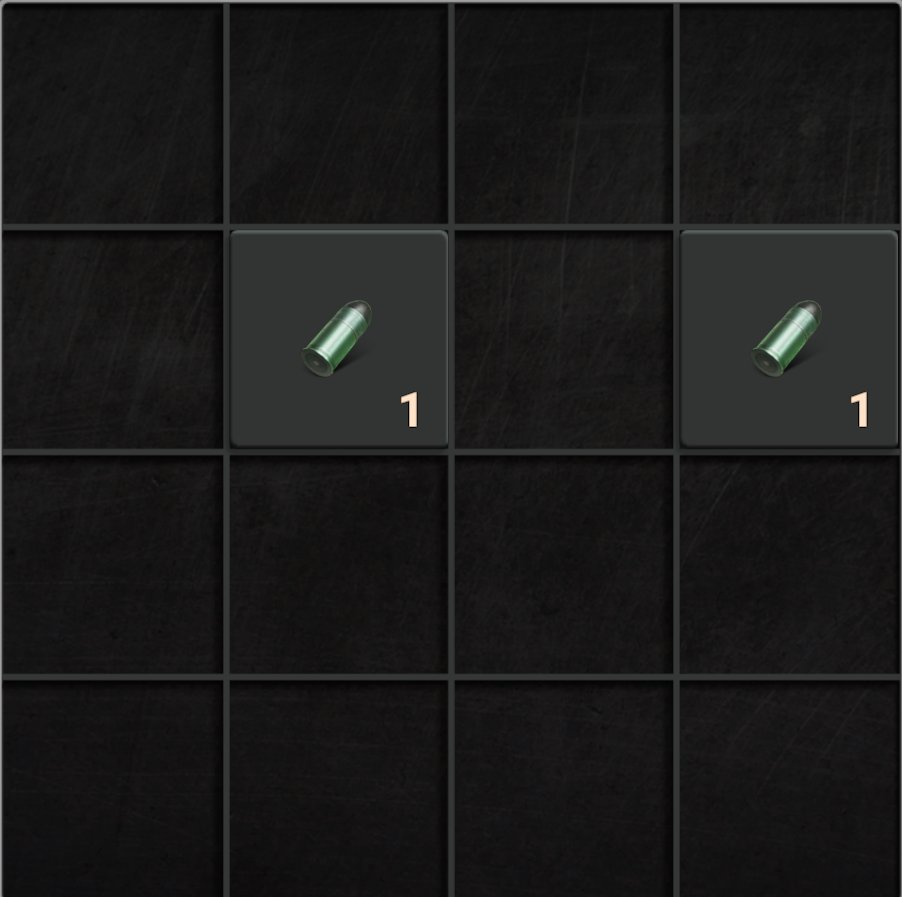
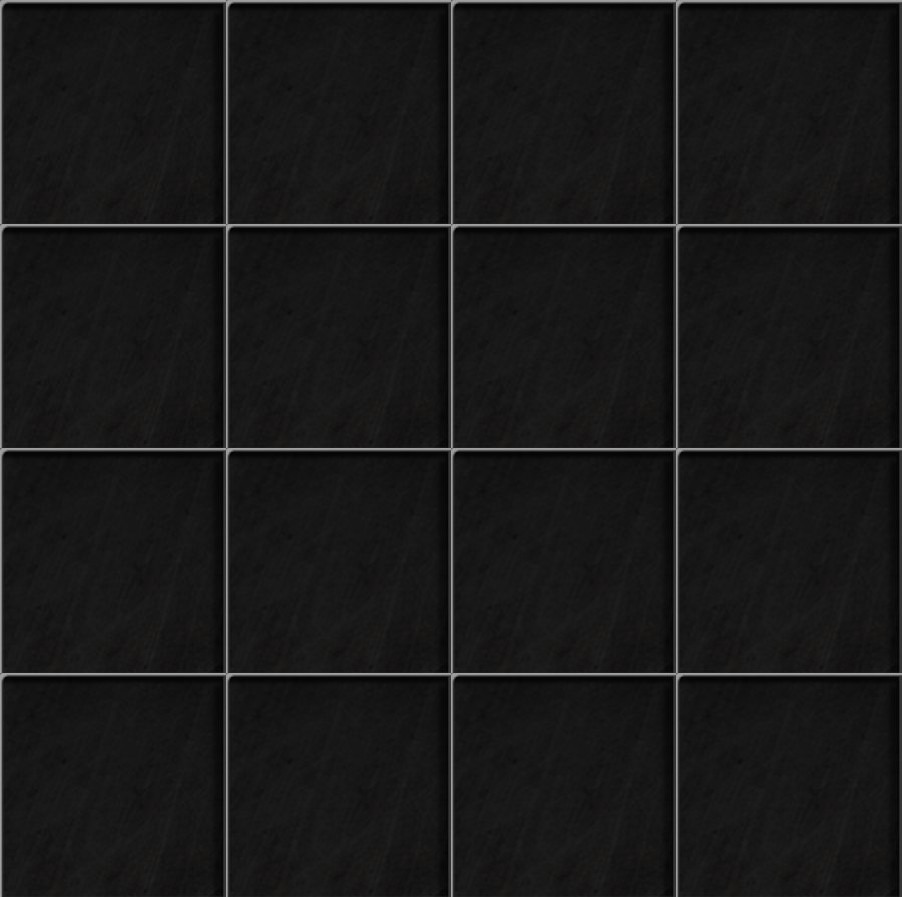
fix(2048): clean ghost tiles from background texture and replace matrix rotation with direct 4-way sliding

Changed region(s): [[0.0, 0.0, 1.0, 1.0]]

diff --git a/doomsday-2048.js b/doomsday-2048.js
@@ -61,8 +61,8 @@
     }
   };
 
-  const slideRow = (row) => {
-    let arr = row.filter((v) => v !== 0), gained = 0;
+  const slideLine = (line) => {
+    let arr = line.filter((v) => v !== 0), gained = 0;
     for (let i = 0; i < arr.length - 1; i++) {
       if (arr[i] === arr[i + 1]) {
         arr[i] += 1;
@@ -72,31 +72,35 @@
       }
     }
     while (arr.length < SIZE) arr.push(0);
-    return { row: arr, gained };
+    return { line: arr, gained };
   };
-
-  const rotate = (m) => m[0].map((_, i) => m.map((r) => r[i]).reverse());
 
   const move = (dir) => {
     if (isGameOver) return;
-    let rotated = grid.map((r) => [...r]);
-    const turns = dir === "left" ? 0 : dir === "down" ? 1 : dir === "right" ? 2 : 3;
-    for (let i = 0; i < turns; i++) rotated = rotate(rotated);
-
+    let nextGrid = Array.from({ length: SIZE }, () => Array(SIZE).fill(0));
     let moved = false, roundGained = 0;
-    for (let r = 0; r < SIZE; r++) {
-      const orig = [...rotated[r]];
-      const res = slideRow(rotated[r]);
-      rotated[r] = res.row;
+
+    for (let i = 0; i < SIZE; i++) {
+      let orig = [];
+      if (dir === "left") orig = [grid[i][0], grid[i][1], grid[i][2], grid[i][3]];
+      else if (dir === "right") orig = [grid[i][3], grid[i][2], grid[i][1], grid[i][0]];
+      else if (dir === "up") orig = [grid[0][i], grid[1][i], grid[2][i], grid[3][i]];
+      else if (dir === "down") orig = [grid[3][i], grid[2][i], grid[1][i], grid[0][i]];
+
+      const res = slideLine(orig);
       roundGained += res.gained;
-      if (orig.some((v, idx) => v !== res.row[idx])) moved = true;
+      if (orig.some((v, idx) => v !== res.line[idx])) moved = true;
+
+      for (let j = 0; j < SIZE; j++) {
+        if (dir === "left") nextGrid[i][j] = res.line[j];
+        else if (dir === "right") nextGrid[i][3 - j] = res.line[j];
+        else if (dir === "up") nextGrid[j][i] = res.line[j];
+        else if (dir === "down") nextGrid[3 - j][i] = res.line[j];
+      }
     }
 
-    const unturns = (4 - turns) % 4;
-    for (let i = 0; i < unturns; i++) rotated = rotate(rotated);
-
     if (moved) {
-      grid = rotated;
+      grid = nextGrid;
       score += roundGained;
       spawnTile();
       checkGameStatus();
